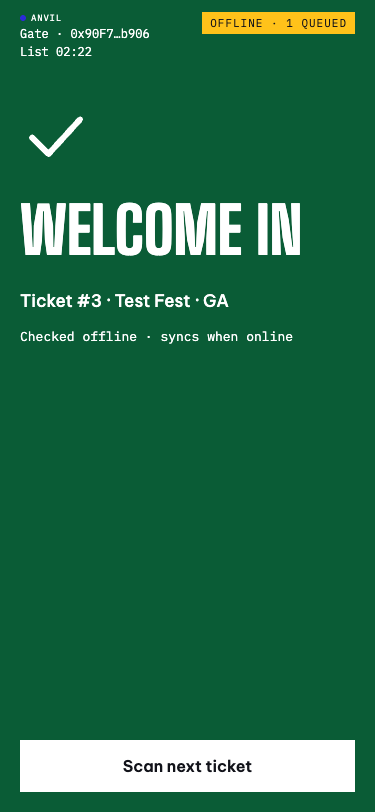
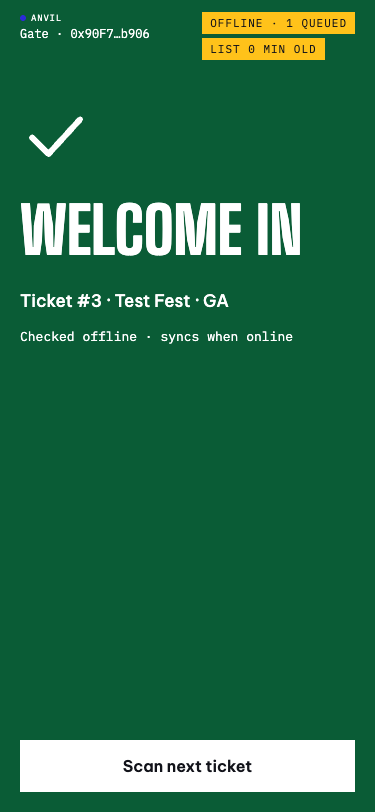
fix(gate): offline review: no second entry once back online, holder list expires after 10 min, contract-strict signatures
- The online scan path also refuses a ticket this device admitted offline (queued,
  sent or flagged), before the chain knows about it.
- verifyOffline refuses a holder list older than 10 minutes (configurable) with
  StaleList; listed tickets are left out of the list; the badge shows the list age.
- Signatures are accepted offline only as VeGoc's ECDSA.tryRecover accepts them:
  65 bytes, v 27 or 28, s at most n/2.
Regression tests for each.

diff --git a/app/src/lib/offline.ts b/app/src/lib/offline.ts
@@ -4,7 +4,7 @@
 // Back online, each queued scan is checked against the chain again and sent as a normal check-in. A scan that can no
 // longer be sent (the ticket was resold or checked in since the snapshot, or the QR expired before the network came
 // back) is kept and flagged for staff.
-import { recoverTypedDataAddress } from 'viem';
+import { hexToBytes, recoverTypedDataAddress } from 'viem';
 import { decodeQr, MAX_QR_SECONDS } from './index';
 import type { Address, ErrorCode, GateSnapshot, JournalEntry, KeyValueStore, QrPayload, ScanVerdict, Ticket } from './types';
 
@@ -34,14 +34,30 @@ export type OfflineVerdict =
 
 /** The same 15 seconds the online gate leaves for the transaction to land. */
 export const MIN_SECONDS = 15;
+/** Default age after which the holder list is no longer trusted offline: a ticket resold since would let the old holder in. */
+export const MAX_LIST_AGE_SEC = 600;
+/** secp256k1 group order / 2: OpenZeppelin's ECDSA refuses any s above it (malleable signatures). */
+const HALF_N = 0x7fffffffffffffffffffffffffffffff5d576e7357a4501ddfe92f46681b20a0n;
+
+/**
+ * Accepts only what VeGoc's checkIn accepts through ECDSA.tryRecover: 65 bytes, v of 27 or 28, low s.
+ * viem alone would also take a 64-byte compact signature, v of 0/1, or a high s.
+ */
+export function strictSignature(signature: string): boolean {
+  if (!/^0x[0-9a-fA-F]{130}$/.test(signature)) return false;
+  const b = hexToBytes(signature as `0x${string}`);
+  const s = BigInt(`0x${signature.slice(66, 130)}`);
+  return (b[64] === 27 || b[64] === 28) && s > 0n && s <= HALF_N;
+}
 const same = (a: string, b: string) => a.toLowerCase() === b.toLowerCase();
 
 /** Pure check of one QR against a snapshot and the local queue. Sends nothing. */
-export async function verifyOffline(raw: string, snap: GateSnapshot | null, queue: QueuedScan[], nowSec: number): Promise<OfflineVerdict> {
+export async function verifyOffline(raw: string, snap: GateSnapshot | null, queue: QueuedScan[], nowSec: number, maxAgeSec = MAX_LIST_AGE_SEC): Promise<OfflineVerdict> {
   const payload = decodeQr(raw);
   if (!payload) return { kind: 'invalid-qr' };
   if (!snap) return { kind: 'no-snapshot' };
   const reject = (code: ErrorCode, owner?: Address): OfflineVerdict => ({ kind: 'rejected', code, payload, owner });
+  if (nowSec * 1000 - snap.takenAt > maxAgeSec * 1000) return reject('StaleList');
   if (payload.chainId !== snap.domain.chainId || !same(payload.contract, snap.domain.verifyingContract)) return reject('WrongNetwork');
   const t = snap.tickets[payload.tokenId];
   // Another event, or a ticket bought after the snapshot: nothing to check it against.
@@ -54,6 +70,7 @@ export async function verifyOffline(raw: string, snap: GateSnapshot | null, queu
   if (remaining < 0) return reject('SignatureExpired');
   if (remaining > MAX_QR_SECONDS) return reject('DeadlineTooFar');
   if (t.checkedIn || queue.some((q) => q.tokenId === payload.tokenId)) return reject('AlreadyCheckedIn');
+  if (!strictSignature(payload.signature)) return reject('InvalidSignature');
   let signer: Address;
   try {
     signer = await recoverTypedDataAddress({
@@ -85,7 +102,7 @@ export interface FlushReport {
   conflicts: QueuedScan[];
 }
 
-export function createOfflineGate({ store, chain, scope, now = Date.now }: { store: KeyValueStore; chain: GateChain; scope: string; now?: () => number }) {
+export function createOfflineGate({ store, chain, scope, now = Date.now, maxAgeSec = MAX_LIST_AGE_SEC }: { store: KeyValueStore; chain: GateChain; scope: string; now?: () => number; maxAgeSec?: number }) {
   const snapKey = `gate-snapshot:${scope}`;
   const queueKey = `gate-queue:${scope}`;
   let writes: Promise<unknown> = Promise.resolve();
@@ -115,10 +132,20 @@ export function createOfflineGate({ store, chain, scope, now = Date.now }: { sto
       await store.setItem(snapKey, JSON.stringify(snap));
       return snap;
     },
-    verify: async (raw: string) => verifyOffline(raw, await snapshot(), await queue(), nowSec()),
+    verify: async (raw: string) => verifyOffline(raw, await snapshot(), await queue(), nowSec(), maxAgeSec),
+    /**
+     * Online scans go through here too: a ticket already admitted offline (queued, sent or flagged) is refused even
+     * though the chain does not know about it yet, so the network coming back cannot let it in a second time.
+     */
+    screenOnline: async <V extends ScanVerdict>(verdict: V): Promise<V | ScanVerdict> => {
+      if (verdict.kind !== 'ok' && verdict.kind !== 'expiring') return verdict;
+      const hit = (await queue()).find((q) => q.tokenId === verdict.payload.tokenId);
+      if (!hit) return verdict;
+      return { kind: 'rejected', code: hit.state === 'sent' ? 'InFlight' : 'AlreadyCheckedIn', payload: verdict.payload };
+    },
     /** Admits the guest: verifies again (a second scan of the same QR is refused), then queues the scan. */
     admit: async (raw: string): Promise<OfflineVerdict> => {
-      const v = await verifyOffline(raw, await snapshot(), await queue(), nowSec());
+      const v = await verifyOffline(raw, await snapshot(), await queue(), nowSec(), maxAgeSec);
       if (v.kind !== 'ok') return v;
       const snap = (await snapshot())!;
       const item: QueuedScan = { tokenId: v.payload.tokenId, eventId: snap.tickets[v.payload.tokenId].eventId, holder: snap.tickets[v.payload.tokenId].holder, raw, deadline: v.payload.deadline, scannedAt: now(), state: 'queued' };

diff --git a/app/test/offline.test.ts b/app/test/offline.test.ts
@@ -23,7 +23,33 @@ async function qr(signer = holder, tokenId = '7', deadline = NOW + 180, chainId 
   return encodeQr(p);
 }
 
+const N = 0xfffffffffffffffffffffffffffffffebaaedce6af48a03bbfd25e8cd0364141n;
+/** Same signature, other encodings: high s (v flipped), v as 0/1, and the 64-byte compact form (EIP-2098). */
+function variants(sig: string) {
+  const r = sig.slice(2, 66), s = BigInt(`0x${sig.slice(66, 130)}`), v = parseInt(sig.slice(130), 16);
+  const highS = `0x${r}${(N - s).toString(16).padStart(64, '0')}${(v === 27 ? 28 : 27).toString(16)}`;
+  const lowV = `0x${r}${sig.slice(66, 130)}${(v - 27).toString(16).padStart(2, '0')}`;
+  const compact = `0x${r}${((v === 28 ? 1n << 255n : 0n) | s).toString(16).padStart(64, '0')}`;
+  return { highS, lowV, compact };
+}
+
 describe('verifyOffline', () => {
+  test('only signatures the contract would accept: high s, v of 0/1 and 64-byte compact are refused', async () => {
+    const raw = JSON.parse(await qr());
+    for (const [name, sig] of Object.entries(variants(raw.signature))) {
+      const v = await verifyOffline(JSON.stringify({ ...raw, signature: sig }), snap(), [], NOW);
+      expect([name, v]).toMatchObject([name, { kind: 'rejected', code: 'InvalidSignature' }]);
+    }
+    expect(await verifyOffline(JSON.stringify(raw), snap(), [], NOW)).toMatchObject({ kind: 'ok' });
+  });
+
+  test('a holder list older than the limit is refused (a resale since could let the old holder in)', async () => {
+    const old = { ...snap(), takenAt: (NOW - 601) * 1000 };
+    expect(await verifyOffline(await qr(), old, [], NOW)).toMatchObject({ kind: 'rejected', code: 'StaleList' });
+    expect(await verifyOffline(await qr(), { ...old, takenAt: (NOW - 599) * 1000 }, [], NOW)).toMatchObject({ kind: 'ok' });
+    expect(await verifyOffline(await qr(), { ...old, takenAt: (NOW - 120) * 1000 }, [], NOW, 60)).toMatchObject({ code: 'StaleList' });
+  });
+
   test('a QR signed by the holder in the snapshot is valid with no network', async () => {
     const v = await verifyOffline(await qr(), snap(), [], NOW);
     expect(v).toMatchObject({ kind: 'ok', eventName: 'Test Fest', tierName: 'GA', secondsLeft: 180 });
@@ -141,6 +167,43 @@ describe('offline queue', () => {
     clock += 170_000;
     expect((await gate.flush()).conflicts[0]).toMatchObject({ state: 'conflict', conflict: 'SignatureExpired', tokenId: '7' });
     expect(state.sent).toEqual([]);
+  });
+
+  test('back online, a ticket admitted offline is refused by the online path too (no second entry)', async () => {
+    const { chain, state } = fakeChain(snap());
+    const gate = createOfflineGate({ store: memoryStore(), chain, scope: 't', now: () => NOW * 1000 });
+    await gate.refresh();
+    const raw = await qr();
+    await gate.admit(raw);
+    const payload = JSON.parse(raw) as QrPayload;
+    const online = { kind: 'ok' as const, payload, secondsLeft: 100 };
+    // Queued, not sent yet: the chain would still say valid.
+    expect(await gate.screenOnline(online)).toMatchObject({ kind: 'rejected', code: 'AlreadyCheckedIn' });
+    await gate.flush();
+    expect(await gate.screenOnline(online)).toMatchObject({ kind: 'rejected', code: 'InFlight' });
+    state.owner = buyer.address;
+    // Flagged scans keep the ticket refused as well.
+    const other = createOfflineGate({ store: memoryStore(), chain, scope: 'u', now: () => NOW * 1000 });
+    await other.refresh();
+    state.owner = holder.address;
+    await other.admit(raw);
+    state.checkedIn = true;
+    await other.flush();
+    expect((await other.queue())[0].state).toBe('conflict');
+    expect(await other.screenOnline(online)).toMatchObject({ kind: 'rejected', code: 'AlreadyCheckedIn' });
+    // Another ticket passes through untouched.
+    const seven = { ...online, payload: { ...payload, tokenId: '8' } };
+    expect(await gate.screenOnline(seven)).toBe(seven);
+  });
+
+  test('a stale list refuses offline admission after the configured age', async () => {
+    let clock = NOW * 1000;
+    const { chain } = fakeChain(snap());
+    const gate = createOfflineGate({ store: memoryStore(), chain, scope: 't', now: () => clock, maxAgeSec: 120 });
+    await gate.refresh();
+    clock += 121_000;
+    expect(await gate.admit(await qr(holder, '7', NOW + 250))).toMatchObject({ kind: 'rejected', code: 'StaleList' });
+    expect(await gate.queue()).toEqual([]);
   });
 
   test('a ticket checked in online is refused offline before the next snapshot', async () => {

diff --git a/app/src/screens/GateScreen.tsx b/app/src/screens/GateScreen.tsx
@@ -91,7 +91,8 @@ export function GateScreen() {
     setMode({ m: 'checking' });
     if (online !== false) {
       try {
-        setMode({ m: 'verdict', raw, verdict: await app.service.preflight(raw) });
+        // Also refused if this device already admitted the ticket offline and the chain has not caught up.
+        setMode({ m: 'verdict', raw, verdict: await offline.screenOnline(await app.service.preflight(raw)) });
         return;
       } catch (e) {
         if (codeOf(e) !== 'Network') { setMode({ m: 'error', code: codeOf(e) }); return; }
@@ -107,6 +108,8 @@ export function GateScreen() {
   async function confirm(raw: string, tokenId: string, holder: string) {
     setMode({ m: 'sending', raw, tokenId });
     try {
+      const screened = await offline.screenOnline({ kind: 'ok', payload: JSON.parse(raw), secondsLeft: MIN_SECONDS });
+      if (screened.kind === 'rejected') { setMode({ m: 'verdict', raw, verdict: screened }); return; }
       const result = await app.service.checkIn(raw);
       if ('hash' in result) {
         await offline.markIn(tokenId);
@@ -166,6 +169,9 @@ export function GateScreen() {
   return <Pass bar={bar} raw={raw} verdict={v} label={v.kind === 'ok' && v.ticket ? `${v.ticket.event.name} · ${v.ticket.tierName}.` : undefined} onConfirm={confirm} onCancel={again} />;
 }
 
+/** Age of the offline holder list; past MAX_LIST_AGE_SEC the gate refuses offline checks. */
+const age = (at: number) => `${Math.max(0, Math.floor((Date.now() - at) / 60_000))} min`;
+
 function GateBar({ balance, tint: fg, online, waiting, flagged, listAt }: { balance: string | null; tint: string; online: boolean | null; waiting: number; flagged: number; listAt: number | null }) {
   const app = useApp();
   return (
@@ -174,10 +180,11 @@ function GateBar({ balance, tint: fg, online, waiting, flagged, listAt }: { bala
         <NetworkTag tint={fg} />
         <Mono style={{ color: fg }}>Gate · {short(app.wallet.address)}</Mono>
         {/* When the holder list used for offline checks was last read. */}
-        {listAt ? <Mono testID="gate-list" style={{ color: fg }}>List {new Date(listAt).toTimeString().slice(0, 5)}</Mono> : null}
+        {listAt && online !== false ? <Mono testID="gate-list" style={{ color: fg }}>List {age(listAt)} old</Mono> : null}
       </View>
       <View style={{ alignItems: 'flex-end', gap: 4 }}>
         {online === false || waiting > 0 ? <Badge testID="gate-offline" tone={online === false ? 'amber' : 'line'} label={`${online === false ? 'Offline' : 'Syncing'} · ${waiting} queued`} /> : null}
+        {online === false && listAt ? <Badge testID="gate-offline-age" tone="amber" label={`List ${age(listAt)} old`} /> : null}
         {flagged > 0 ? <Badge testID="gate-flagged" tone="orange" label={`${flagged} to check`} /> : null}
         {online === false ? null : <Mono testID="gate-balance" style={{ color: fg }}>{balance ? formatAmount(balance, config.nativeSymbol) : '…'}</Mono>}
       </View>

diff --git a/app/test/chain.test.ts b/app/test/chain.test.ts
@@ -417,6 +417,10 @@ test('offline gate: snapshot online, admit with the network down, flush sends th
   const snap = await gate.refresh();
   expect({ ...snap.domain, verifyingContract: snap.domain.verifyingContract.toLowerCase() }).toEqual({ name: 'VeGoc', version: '1', chainId: 31337, verifyingContract: x.box.toLowerCase() });
   expect(Object.keys(snap.tickets)).toEqual(['0', '1']);
+  // A listed ticket can sell any second: it is left out of the list and refused offline.
+  await final(x.a, (await x.a.buy('0', 0, 1)).id); // ticket 2
+  await final(x.a, (await x.a.list('2', '1000000')).id);
+  expect(Object.keys((await gate.refresh()).tickets)).toEqual(['0', '1']);
   expect(snap.tickets['0'].holder).toBe(accounts[1].address);
 
   offline = true;

diff --git a/app/src/lib/index.ts b/app/src/lib/index.ts
@@ -670,7 +670,8 @@ export function createTicketService({ config, signer, store, relayer, now = Date
           throw e;
         })));
         for (const v of views) {
-          if (!v) continue;
+          // A listed ticket can be sold any second, so it is left out: offline, it is refused (NotInSnapshot).
+          if (!v || v.listPrice > 0n) continue;
           const ev = byId.get(v.eventId.toString());
           if (ev) snap.tickets[v.tokenId.toString()] = { eventId: ev.id, tierName: ev.tiers[Number(v.tier)]?.name ?? '', holder: v.owner, checkedIn: v.checkedIn };
         }

diff --git a/app/src/lib/types.ts b/app/src/lib/types.ts
@@ -152,7 +152,7 @@ export type ErrorCode =
   | 'NotListed' | 'PriceChanged' | 'OwnListing' | 'NotRefundable' | 'FaucetCooldown' | 'BadEvent' | 'BadTier'
   | 'DeadlineTooFar' | 'HolderNotWallet' | 'CompNotResellable' | 'WaitlistFirst' | 'ListingsOpen' | 'AlreadyWaiting' | 'NotWaiting'
   | 'OwnerChanged' | 'NonexistentToken' | 'InsufficientUsdc' | 'InsufficientFunds' | 'WrongNetwork' | 'InFlight'
-  | 'NotInSnapshot' | 'Network' | 'Unknown';
+  | 'NotInSnapshot' | 'StaleList' | 'Network' | 'Unknown';
 
 export type TicketStatus =
   | 'available'   // held, unused, not listed

diff --git a/app/e2e/demo.spec.ts b/app/e2e/demo.spec.ts
@@ -180,6 +180,7 @@ test('offline gate: a holder-signed QR is checked with no network, queued, and s
   await page.getByTestId('confirm').click();
   await expect(page.getByTestId('gate-queued')).toContainText(`Ticket #${id}`);
   await expect(page.getByTestId('gate-offline')).toHaveText('OFFLINE · 1 QUEUED');
+  await expect(page.getByTestId('gate-offline-age')).toHaveText(/^LIST \d+ MIN OLD$/);
   await page.screenshot({ path: '../docs/img/gate-offline.png' });
   await page.getByTestId('next').click();
   await scan(page, qr);

diff --git a/app/src/messages.ts b/app/src/messages.ts
@@ -36,6 +36,7 @@ const messages: Record<ErrorCode, string> = {
   WrongNetwork: 'Wrong event or network',
   InFlight: 'Previous action still pending',
   NotInSnapshot: 'Not on the offline list',
+  StaleList: 'Offline list too old. Reconnect',
   Network: 'Cannot reach the network',
   Unknown: 'Unknown error',
 };
